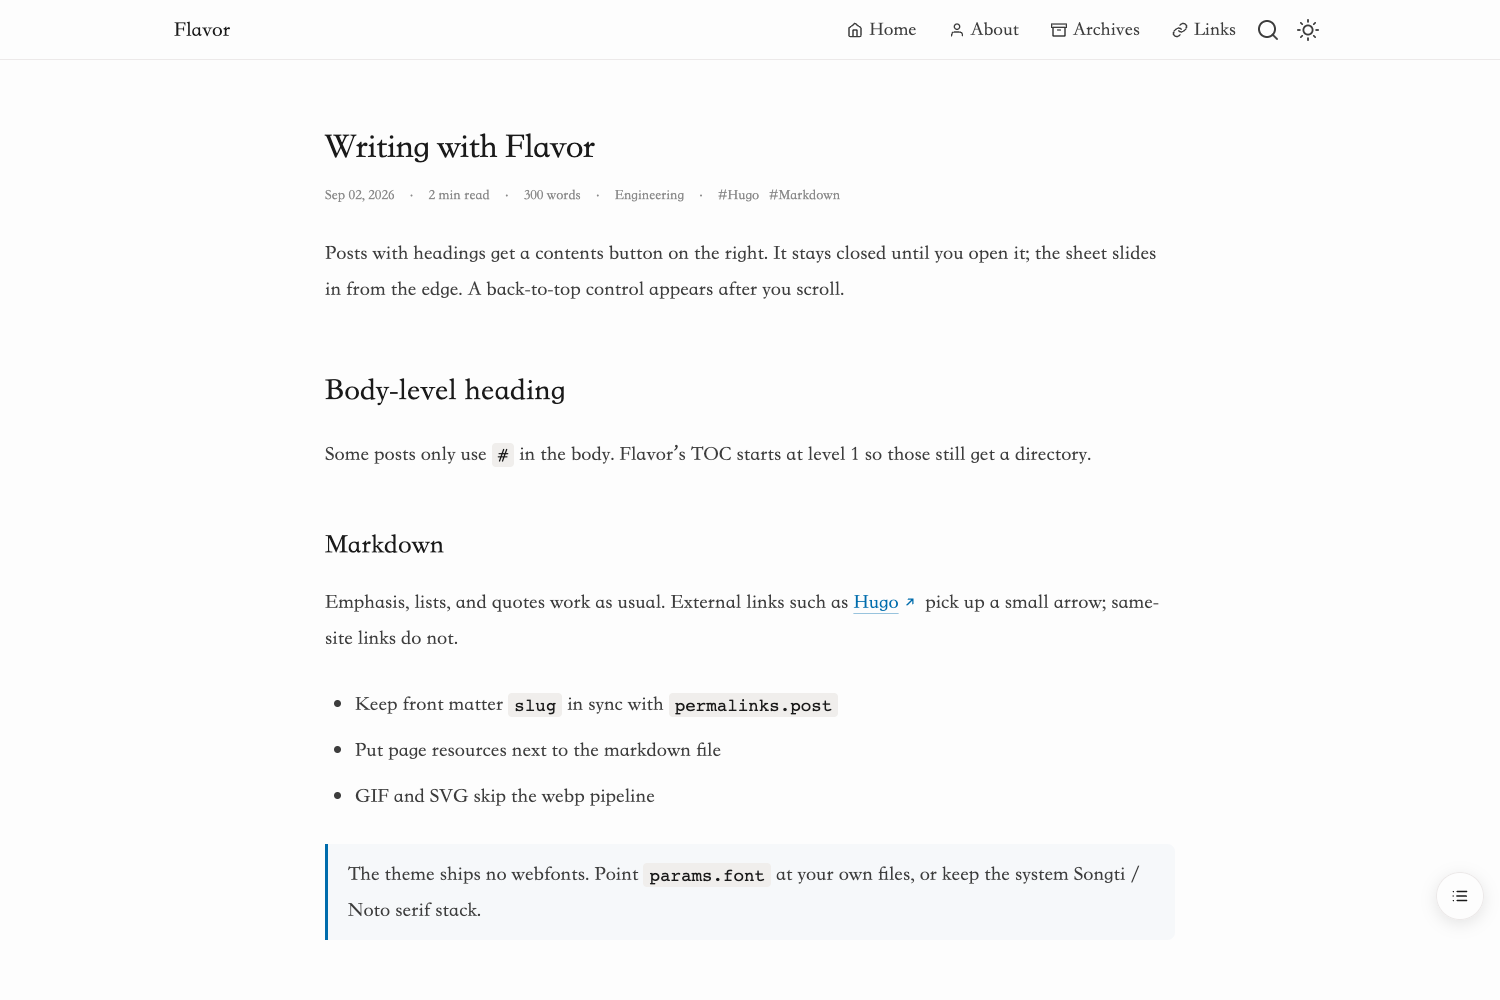
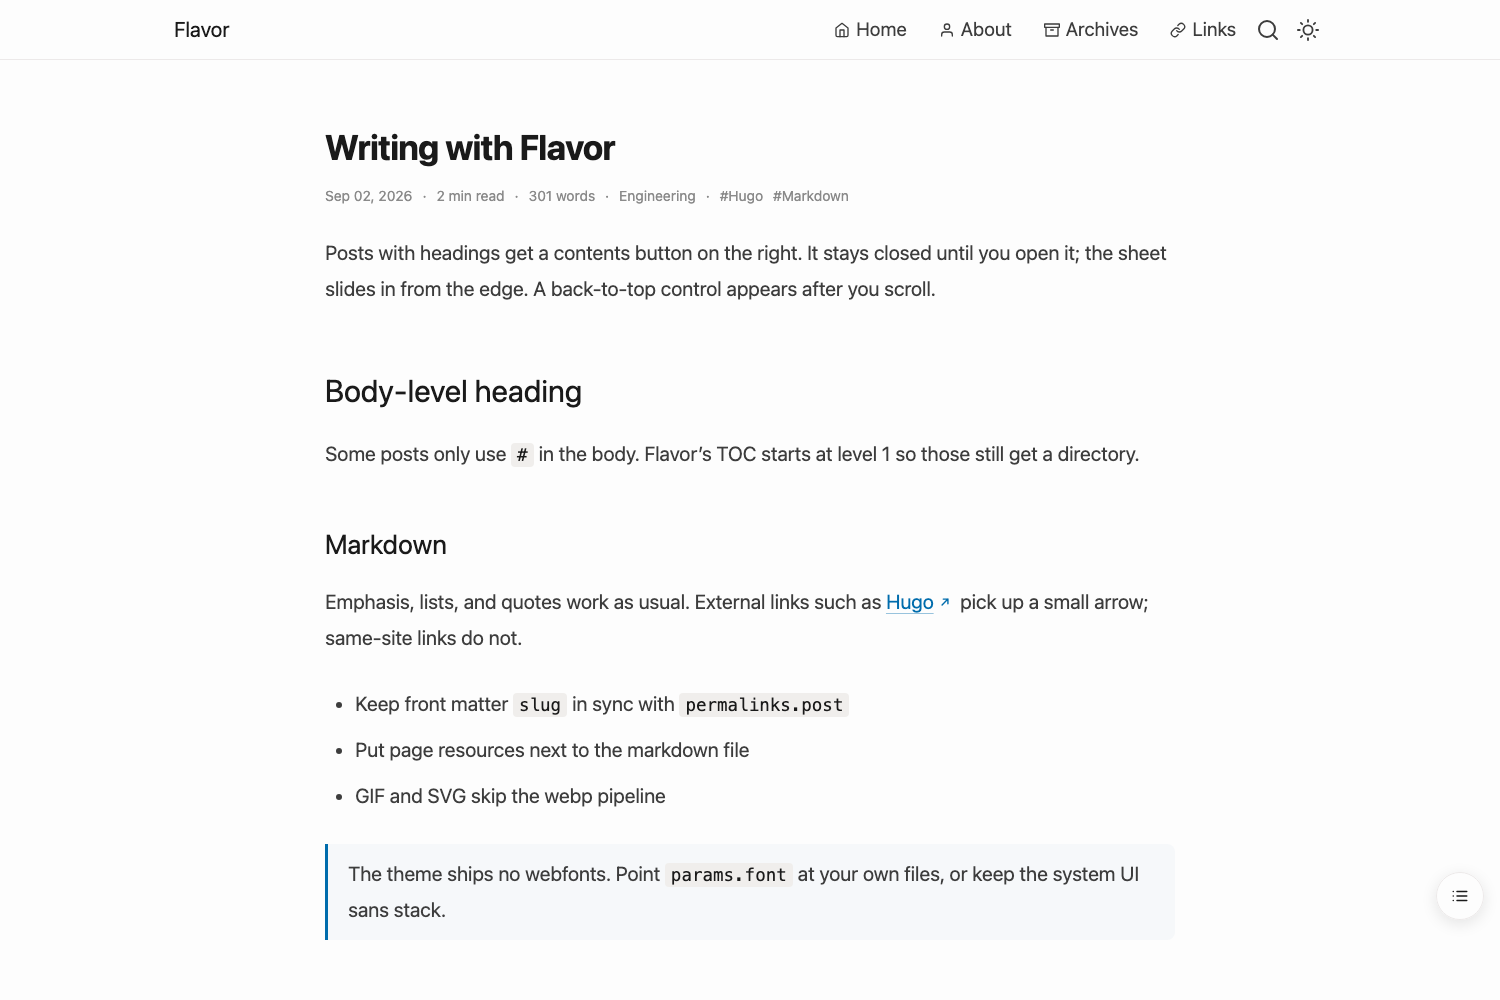
Switch the default typeface to system UI sans.
Use the same system sans/mono stack as the personal blog, restyle
the tags index with hash marks, and refresh the gallery screenshots.
params.font still loads an optional webfont.

diff --git a/assets/scss/_term-cloud.scss b/assets/scss/_term-cloud.scss
@@ -1,4 +1,6 @@
-// Tags / categories. Plain left-aligned links that wrap.
+// Tags / categories. Same arrangement as exp10it.io/tags:
+// a hash mark, then the name. The line under the name is the same
+// solid hairline as article links. Names stay one size.
 .term-cloud-page {
   padding-top: 48px;
   padding-bottom: 72px;
@@ -13,25 +15,55 @@
   &__total {
     font-size: 0.875rem;
     color: var(--meta);
-    margin-bottom: 28px;
+    margin-bottom: 8px;
   }
 }
 
 .term-cloud {
-  display: flex;
-  flex-wrap: wrap;
-  align-items: baseline;
-  gap: 8px 18px;
+  list-style: none;
+  margin: 0;
+  padding: 0;
+
+  li {
+    display: inline-block;
+    margin: 12px 4px;
+  }
 
   a {
+    display: inline-block;
+    padding-right: 0.5rem;
+    --link-ease: cubic-bezier(0.22, 1, 0.36, 1);
     color: var(--text);
-    font-size: 1rem;
-    line-height: 1.7;
+    font-size: 1.125rem;
+    line-height: 1.56;
     text-decoration: none;
-    transition: color var(--t-base);
 
-    &:hover {
-      color: var(--link);
+    span {
+      text-decoration-line: underline;
+      text-decoration-style: solid;
+      text-decoration-thickness: 1px;
+      text-underline-offset: 0.2em;
+      text-decoration-color: color-mix(in srgb, var(--link) 40%, transparent);
+      transition: text-decoration-thickness 0.42s var(--link-ease);
     }
+
+    &:hover span,
+    &:focus-visible span {
+      text-decoration-thickness: 2px;
+    }
+
+    &:focus-visible {
+      outline: 2px solid color-mix(in srgb, var(--link) 48%, transparent);
+      outline-offset: 3px;
+    }
+  }
+
+  &__hash {
+    display: inline-block;
+    width: 1.35rem;
+    height: 1.35rem;
+    margin-inline-end: 0.15rem;
+    vertical-align: -0.22em;
+    opacity: 0.8;
   }
 }

diff --git a/layouts/partials/head.html b/layouts/partials/head.html
@@ -22,13 +22,21 @@
 })();
 </script>
 {{- with .Site.Params.font -}}
+  {{- $css := .css | default "" -}}
+  {{- $abs := or (hasPrefix $css "https://") (hasPrefix $css "http://") -}}
+  {{- if $abs -}}
+    {{- $u := urls.Parse $css -}}
+<link rel="preconnect" href="{{ $u.Scheme }}://{{ $u.Host }}" crossorigin>
+  {{- end -}}
   {{- with .preload -}}
 <link rel="preload" as="font" type="font/woff2" href="{{ . | relURL }}" crossorigin>
   {{- end -}}
-  {{- with .css -}}
-<link rel="preload" as="style" href="{{ . | relURL }}" onload="this.onload=null;this.rel='stylesheet'">
+  {{- with $css -}}
+    {{- $href := . -}}
+    {{- if not $abs }}{{ $href = . | relURL }}{{ end -}}
+<link rel="preload" as="style" href="{{ $href }}"{{ if $abs }} crossorigin{{ end }} onload="this.onload=null;this.rel='stylesheet'">
 <noscript>
-<link rel="stylesheet" href="{{ . | relURL }}">
+<link rel="stylesheet" href="{{ $href }}"{{ if $abs }} crossorigin{{ end }}>
 </noscript>
   {{- end -}}
 {{- end -}}

diff --git a/layouts/_default/single.html b/layouts/_default/single.html
@@ -79,7 +79,7 @@
   <button class="read__toc-btn" id="toc-btn" type="button" aria-expanded="false" aria-controls="toc-aside" aria-label="{{ T "toc-open" }}">
     <svg xmlns="http://www.w3.org/2000/svg" viewBox="0 0 24 24" fill="none" stroke="currentColor" stroke-width="2" stroke-linecap="round" stroke-linejoin="round" aria-hidden="true"><path d="M8 6h13M8 12h13M8 18h13M3 6h.01M3 12h.01M3 18h.01"/></svg>
   </button>
-  <aside class="read__toc" id="toc-aside" aria-hidden="true">
+  <aside class="read__toc" id="toc-aside" aria-hidden="true" aria-label="{{ T "toc-label" }}">
     <div class="read__toc-bar">
       <p class="read__toc-title">{{ T "toc-title" }}</p>
       <button class="read__toc-close" id="toc-close" type="button" aria-label="{{ T "toc-close" }}">

diff --git a/layouts/_default/terms.html b/layouts/_default/terms.html
@@ -5,10 +5,14 @@
 <div class="container term-cloud-page">
   <h1 class="term-cloud-page__title">{{ .Title }}</h1>
   <p class="term-cloud-page__total">{{ T $totalKey (len $terms) }}</p>
-  <div class="term-cloud">
+  <ul class="term-cloud">
     {{- range $terms -}}
-      <a href="{{ .Page.RelPermalink }}">{{ .Page.LinkTitle }}</a>
+    <li>
+      <a href="{{ .Page.RelPermalink }}">
+        <svg class="term-cloud__hash" viewBox="0 0 24 24" aria-hidden="true"><path d="M5 9h14M5 15h14M11 4 7 20M17 4 13 20" fill="none" stroke="currentColor" stroke-width="2" stroke-linecap="round" stroke-linejoin="round"/></svg><span>{{ .Page.LinkTitle }}</span>
+      </a>
+    </li>
     {{- end -}}
-  </div>
+  </ul>
 </div>
 {{ end }}

diff --git a/assets/js/search.js b/assets/js/search.js
@@ -71,8 +71,13 @@
     if (!iso) return '';
     var d = new Date(iso);
     if (isNaN(d)) return iso;
-    var months = ['Jan','Feb','Mar','Apr','May','Jun','Jul','Aug','Sep','Oct','Nov','Dec'];
-    return months[d.getMonth()] + ' ' + String(d.getDate()).padStart(2, '0') + ', ' + d.getFullYear();
+    var lang = document.documentElement.lang || 'en';
+    try {
+      return d.toLocaleDateString(lang, { year: 'numeric', month: 'short', day: '2-digit' });
+    } catch (e) {
+      var months = ['Jan','Feb','Mar','Apr','May','Jun','Jul','Aug','Sep','Oct','Nov','Dec'];
+      return months[d.getMonth()] + ' ' + String(d.getDate()).padStart(2, '0') + ', ' + d.getFullYear();
+    }
   }
 
   function render(hits) {

diff --git a/assets/scss/_post-single.scss b/assets/scss/_post-single.scss
@@ -10,7 +10,7 @@
 
   &__title {
     font-size: 2.1875rem;
-    font-weight: 400;
+    font-weight: 700;
     color: var(--heading);
     line-height: 1.3;
     letter-spacing: -0.02em;
@@ -413,7 +413,7 @@
   }
 
   code {
-    font-family: "JetBrains Mono", "Fira Code", "Source Code Pro", Consolas, monospace;
+    font-family: var(--font-mono);
     font-size: 0.875em;
     padding: 2px 6px;
     border-radius: 4px;
@@ -434,7 +434,7 @@
   }
 
   kbd {
-    font-family: "JetBrains Mono", monospace;
+    font-family: var(--font-mono);
     font-size: 0.8em;
     padding: 2px 6px;
     border: 1px solid var(--kbd-border);

diff --git a/assets/scss/_variables.scss b/assets/scss/_variables.scss
@@ -13,6 +13,9 @@
   --t-base: 0.2s var(--ease);
   --t-slow: 0.3s var(--ease);
   --t-slower: 0.4s var(--ease);
+  // Same stack as exp10it.io (Tailwind --font-sans / --font-mono), plus CJK fallbacks.
+  --font-sans: ui-sans-serif, system-ui, -apple-system, BlinkMacSystemFont, "Segoe UI", "PingFang SC", "Hiragino Sans GB", "Noto Sans SC", "Microsoft YaHei", sans-serif, "Apple Color Emoji", "Segoe UI Emoji";
+  --font-mono: ui-monospace, SFMono-Regular, Menlo, Monaco, Consolas, "Liberation Mono", "Courier New", monospace;
 }
 
 // ── Light theme — paper white, deep blue accent ──

diff --git a/assets/scss/_code.scss b/assets/scss/_code.scss
@@ -36,7 +36,7 @@
     }
 
     code {
-      font-family: "JetBrains Mono", "Fira Code", "Source Code Pro", Consolas, monospace;
+      font-family: var(--font-mono);
       white-space: pre;
       font-size: inherit;
     }
@@ -94,7 +94,7 @@
   background: var(--code-bg);
   line-height: 1.35;
   font-size: 0.6875rem;
-  font-family: "JetBrains Mono", "Fira Code", "Source Code Pro", Consolas, monospace;
+  font-family: var(--font-mono);
   white-space: pre;
   overscroll-behavior-x: contain;
   scrollbar-gutter: stable;

diff --git a/assets/scss/_responsive.scss b/assets/scss/_responsive.scss
@@ -35,6 +35,11 @@
     padding: 0 16px;
   }
 
+  .term-cloud-page {
+    padding-top: 32px;
+    padding-bottom: 48px;
+  }
+
   .term-cloud-page__title {
     font-size: 1.5625rem;
   }
@@ -232,22 +237,6 @@
 
     input {
       font-size: 0.9375rem;
-    }
-  }
-
-  .link-card {
-    &__media,
-    &__fallback {
-      width: 48px;
-    }
-
-    &__avatar {
-      min-height: 48px;
-    }
-
-    &__fallback {
-      min-height: 48px;
-      font-size: 1.1rem;
     }
   }
 

diff --git a/assets/js/encrypt.js b/assets/js/encrypt.js
@@ -117,7 +117,7 @@
       hydrateTOC(body);
       document.dispatchEvent(new CustomEvent('flavor:enhance', { detail: body }));
     } catch (err) {
-      console.error('解密失败', err);
+      console.error('Decrypt failed', err);
       error.removeAttribute('hidden');
     } finally {
       btn.disabled = false;

diff --git a/assets/scss/_references.scss b/assets/scss/_references.scss
@@ -16,7 +16,7 @@
     &::before {
       counter-increment: ref;
       content: "[" counter(ref) "]";
-      font-family: "JetBrains Mono", "Fira Code", Consolas, monospace;
+      font-family: var(--font-mono);
       font-size: 0.8125rem;
       min-width: 28px;
       color: var(--meta);

diff --git a/assets/scss/_base.scss b/assets/scss/_base.scss
@@ -15,7 +15,7 @@ html {
 }
 
 body {
-  font-family: "TsangerJinKai02", "仓耳今楷02", "Songti SC", "STSong", "Noto Serif SC", serif;
+  font-family: var(--font-sans);
   font-size: 1.125rem;
   line-height: 1.8;
   font-weight: 400;
